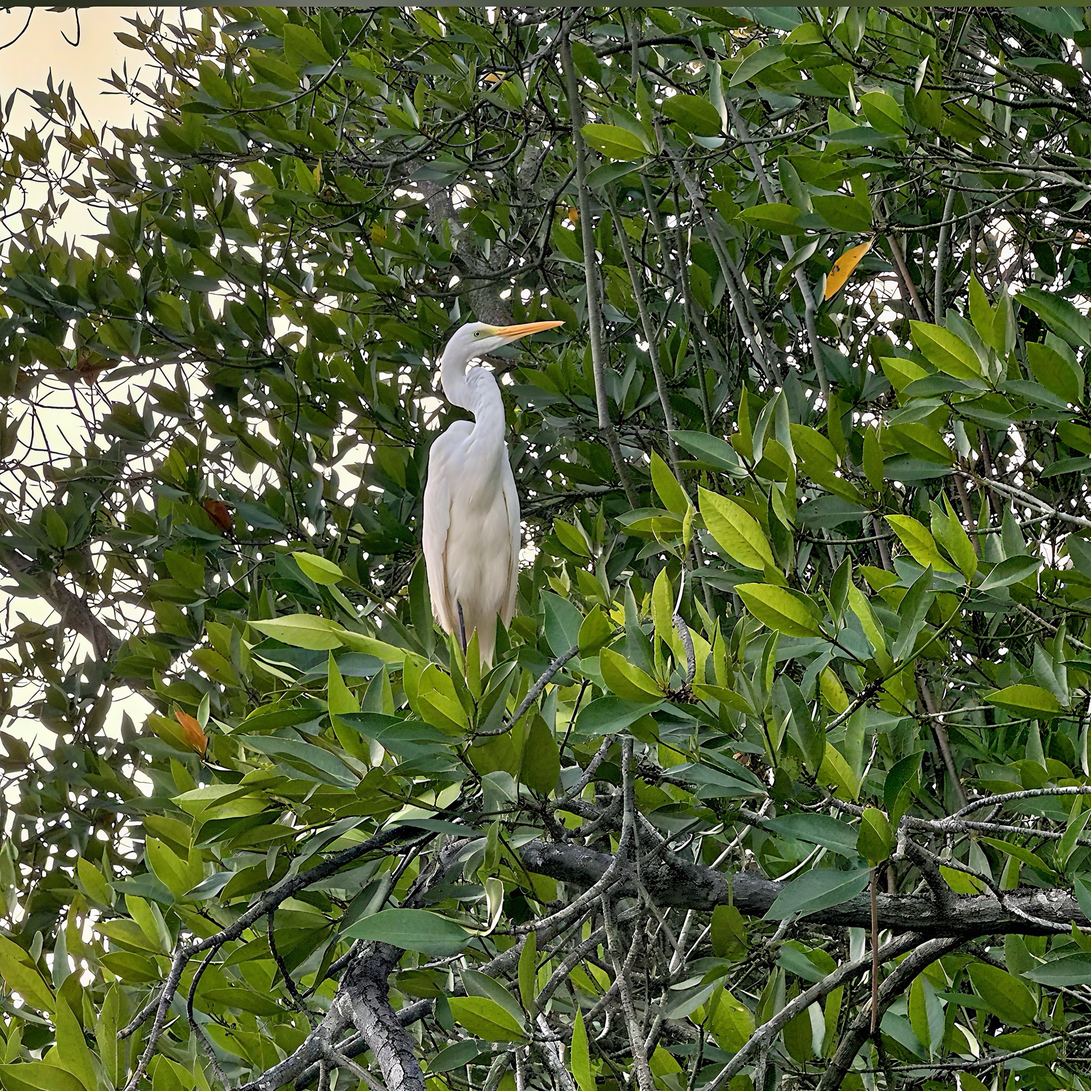
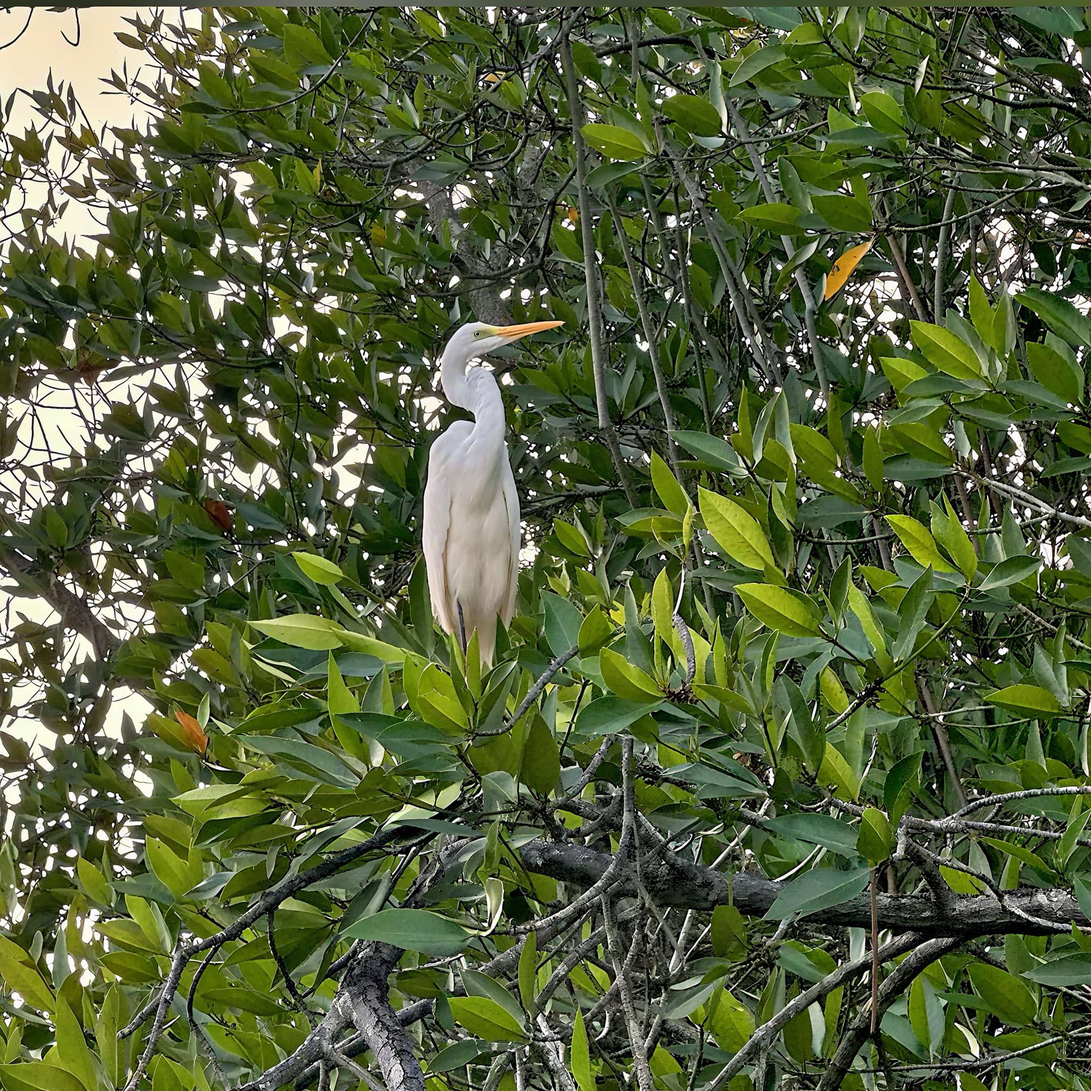
Images

diff --git a/src/pages/TourDetails.tsx b/src/pages/TourDetails.tsx
@@ -51,7 +51,7 @@ const TourDetails: React.FC = () => {
     'sunset-banyan-tree': {
       id: 'sunset-banyan-tree',
       title: 'Sunset & Banyan Tree Tour',
-      heroImage: '/images/sunset-tour/sunset-1.JPEG',
+      heroImage: '/images/sunset-tour/sunset-1.jpg',
       heroTitle: 'Sunset & Banyan Tree Adventure!',
       heroSubtitle: '',
       mainTitle: 'Sunset Over Mangroves: The Banyan Trail!',
@@ -61,7 +61,7 @@ const TourDetails: React.FC = () => {
         { image: '/images/sunset-tour/banyan-tree2.JPG', title: 'Under The Bridges' },
         { image: '/images/sunset-tour/sunset-2.jpg', title: 'Sunset & Beach' }
       ],
-      tourInfoBg: '/images/sunset-tour/sunset-kayaking1.JPG',
+      tourInfoBg: '/images/sunset-tour/sunset-kayaking1.jpg',
       tourInfoTitle: 'Tour Info',
       tourInfoSubtitle: 'Experience the Magic of Sunset on the beach',
       tourInfoLeft: [
@@ -78,7 +78,7 @@ const TourDetails: React.FC = () => {
       ],
       scheduleImages: [
         '/images/sunset-tour/sunset-cliff1.JPEG',
-        '/images/sunset-tour/sunset-1.JPEG',
+        '/images/sunset-tour/sunset-1.jpg',
         '/images/sunset-tour/sunset-2.jpg',
         '/images/sunset-tour/banyan-tree1.JPEG',
         '/images/sunset-tour/banyan-tree2.JPG',
@@ -86,7 +86,7 @@ const TourDetails: React.FC = () => {
         '/images/sunset-tour/bayan-tree4.JPEG',
         '/images/sunset-tour/banyan-tree5.JPEG',
         '/images/sunset-tour/cliff-1.JPG',
-        '/images/sunset-tour/sunset-kayaking1.JPG',
+        '/images/sunset-tour/sunset-kayaking1.jpg',
         '/images/sunset-tour/sunset-kayaking2.JPEG'
       ],
       schedule: [
@@ -130,17 +130,17 @@ const TourDetails: React.FC = () => {
     'sunrise-wildlife': {
       id: 'sunrise-wildlife',
       title: 'Sunrise & Wildlife Tour',
-      heroImage: '/images/sunrise-tour/sunrise1.JPG',
+      heroImage: '/images/sunrise-tour/sunrise1.jpg',
       heroTitle: 'Experience Nature at Dawn',
       heroSubtitle: '',
       mainTitle: 'Sunrise & Wildlife Adventure',
       mainDescription: 'Begin your day with the quiet magic of dawn on Rathgama Lake. Glide across glass-still waters as the sky softens into shades of gold and rose. Watch the mangroves awaken, birds take flight, and local fishermen begin their morning rituals — all while floating in a world that feels calm, untouched, and beautifully alive.',
       tourCards: [
-        { image: '/images/sunrise-tour/sunrise1.JPG', title: 'Early Morning Serenity' },
+        { image: '/images/sunrise-tour/sunrise1.jpg', title: 'Early Morning Serenity' },
         { image: '/images/sunrise-tour/bird2.JPG', title: 'Wildlife Spotting' },
         { image: '/images/sunrise-tour/mangrove-kayaking3.JPEG', title: 'Mangrove Exploration' }
       ],
-      tourInfoBg: '/images/sunrise-tour/mangrove-kayaking2.JPEG',
+      tourInfoBg: '/images/sunrise-tour/mangrove-kayaking2.jpg',
       tourInfoTitle: 'Tour Info',
       tourInfoSubtitle: 'Experience the Magic of Sunrise on the Lake',
       tourInfoLeft: [
@@ -156,14 +156,14 @@ const TourDetails: React.FC = () => {
         { label: 'Location', value: 'Rathgama Lake', color: 'text-white' }
       ],
       scheduleImages: [
-        '/images/sunrise-tour/sunrise1.JPG',
+        '/images/sunrise-tour/sunrise1.jpg',
         '/images/main-carousel/carousel2.jpg',
-        '/images/sunrise-tour/bird1.JPG',
+        '/images/sunrise-tour/bird1.jpg',
         '/images/sunrise-tour/bird2.JPG',
         '/images/sunrise-tour/watermonitor1.JPG',
         '/images/sunrise-tour/mangrove-kayaking3.JPEG',
         '/images/sunrise-tour/mangrove-kayaking4.JPG',
-        '/images/sunrise-tour/mangrove-kayaking5.JPEG',
+        '/images/sunrise-tour/mangrove-kayaking5.jpg',
       ],
       schedule: [
         {

diff --git a/src/components/ToursSection.tsx b/src/components/ToursSection.tsx
@@ -8,7 +8,7 @@ const ToursSection: React.FC = () => {
   const tours = [
     {
       id: 'sunset-banyan-tree',
-      image: '/images/sunset-tour/sunset-kayaking1.JPG',
+      image: '/images/sunset-tour/sunset-kayaking1.jpg',
       title: 'Sunset & Banyan Tree Tour',
       description: 'Late afternoon adventure to a majestic Banyan tree. Ends at Dodanduwa fishing harbour with a stunning ocean sunset.',
       badge: 'Route A',
@@ -19,7 +19,7 @@ const ToursSection: React.FC = () => {
     },
     {
       id: 'sunrise-wildlife',
-      image: '/images/sunrise-tour/mangrove-kayaking5.JPEG',
+      image: '/images/sunrise-tour/mangrove-kayaking5.jpg',
       title: 'Sunrise & Wildlife Tour',
       description: 'Early morning serenity on calm waters. Explore mangrove canals, spot local wildlife, and watch traditional fishermen at work.',
       badge: 'Route B',

diff --git a/src/components/HeroSection.tsx b/src/components/HeroSection.tsx
@@ -5,8 +5,8 @@ const HeroSection: React.FC = () => {
   
   const slides = [
     { image: '/images/main-carousel/carousel1.jpg', text: 'Explore Hidden Waters' },
-    { image: '/images/sunrise-tour/bird1.JPG', text: 'Nature At Peace' },
-    { image: '/images/sunset-tour/sunset-1.JPEG', text: 'Sunset Adventures Await' },
+    { image: '/images/sunrise-tour/bird1.jpg', text: 'Nature At Peace' },
+    { image: '/images/sunset-tour/sunset-1.jpg', text: 'Sunset Adventures Await' },
     { image: '/images/main-carousel/carousel2.jpg', text: 'Discover Wildlife Wonders' },
   ];
 

diff --git a/src/pages/Blog.tsx b/src/pages/Blog.tsx
@@ -30,7 +30,7 @@ const Blog: React.FC = () => {
       id: 2,
       title: "Bird Watching Guide: Rathgama's Feathered Friends",
       excerpt: "From kingfishers to herons, discover the incredible variety of bird species that call Rathgama Lake their home throughout the seasons.",
-      image: "/images/sunrise-tour/bird1.JPG",
+      image: "/images/sunrise-tour/bird1.jpg",
       date: "November 20, 2024",
       tags: ["Birds", "Nature"],
       slug: "bird-watching-guide-rathgamas-feathered-friends"

diff --git a/src/pages/BlogArticle.tsx b/src/pages/BlogArticle.tsx
@@ -71,7 +71,7 @@ const BlogArticle: React.FC = () => {
 
         <p>Our guided tours are timed to maximize your chances of spotting a wide variety of species, and our local guides can identify birds by sight and sound, enriching your experience with fascinating insights into their behaviors and habitats.</p>
       `,
-      image: "/images/sunrise-tour/bird1.JPG",
+      image: "/images/sunrise-tour/bird1.jpg",
       date: "November 20, 2024",
       tags: ["Birds", "Nature"]
     },

diff --git a/src/components/TourDetailsSection.tsx b/src/components/TourDetailsSection.tsx
@@ -8,7 +8,7 @@ const TourDetailsSection: React.FC = () => {
         {/* Left Side - Image */}
         <div className="w-full md:w-1/2 order-1 md:order-1">
           <img 
-            src="/images/others/before-you-paddle.JPEG" 
+            src="/images/others/before-you-paddle.jpg" 
             alt="Kayaking tour" 
             className="w-full h-40 md:h-[560px] object-cover"
           />

diff --git a/src/pages/AmenitiesAndTips.tsx b/src/pages/AmenitiesAndTips.tsx
@@ -22,7 +22,7 @@ const AmenitiesAndTips: React.FC = () => {
       {/* Hero Section */}
       <div className="w-full h-[50vh] md:h-[60vh] relative">
         <img 
-          src="/images/others/ameneties1.JPG" 
+          src="/images/others/ameneties1.jpg" 
           alt="Amenities and Tips" 
           className="w-full h-full object-cover"
         />

diff --git a/src/pages/AboutUs.tsx b/src/pages/AboutUs.tsx
@@ -15,7 +15,7 @@ const AboutUs: React.FC = () => {
       {/* Hero Image Section - Full Width and Height */}
       <div className="w-full h-screen relative">
         <img 
-          src="/images/others/aboutus.jpeg" 
+          src="/images/others/aboutus.jpg" 
           alt="Rathgama Lake" 
           className="w-full h-full object-cover"
         />
